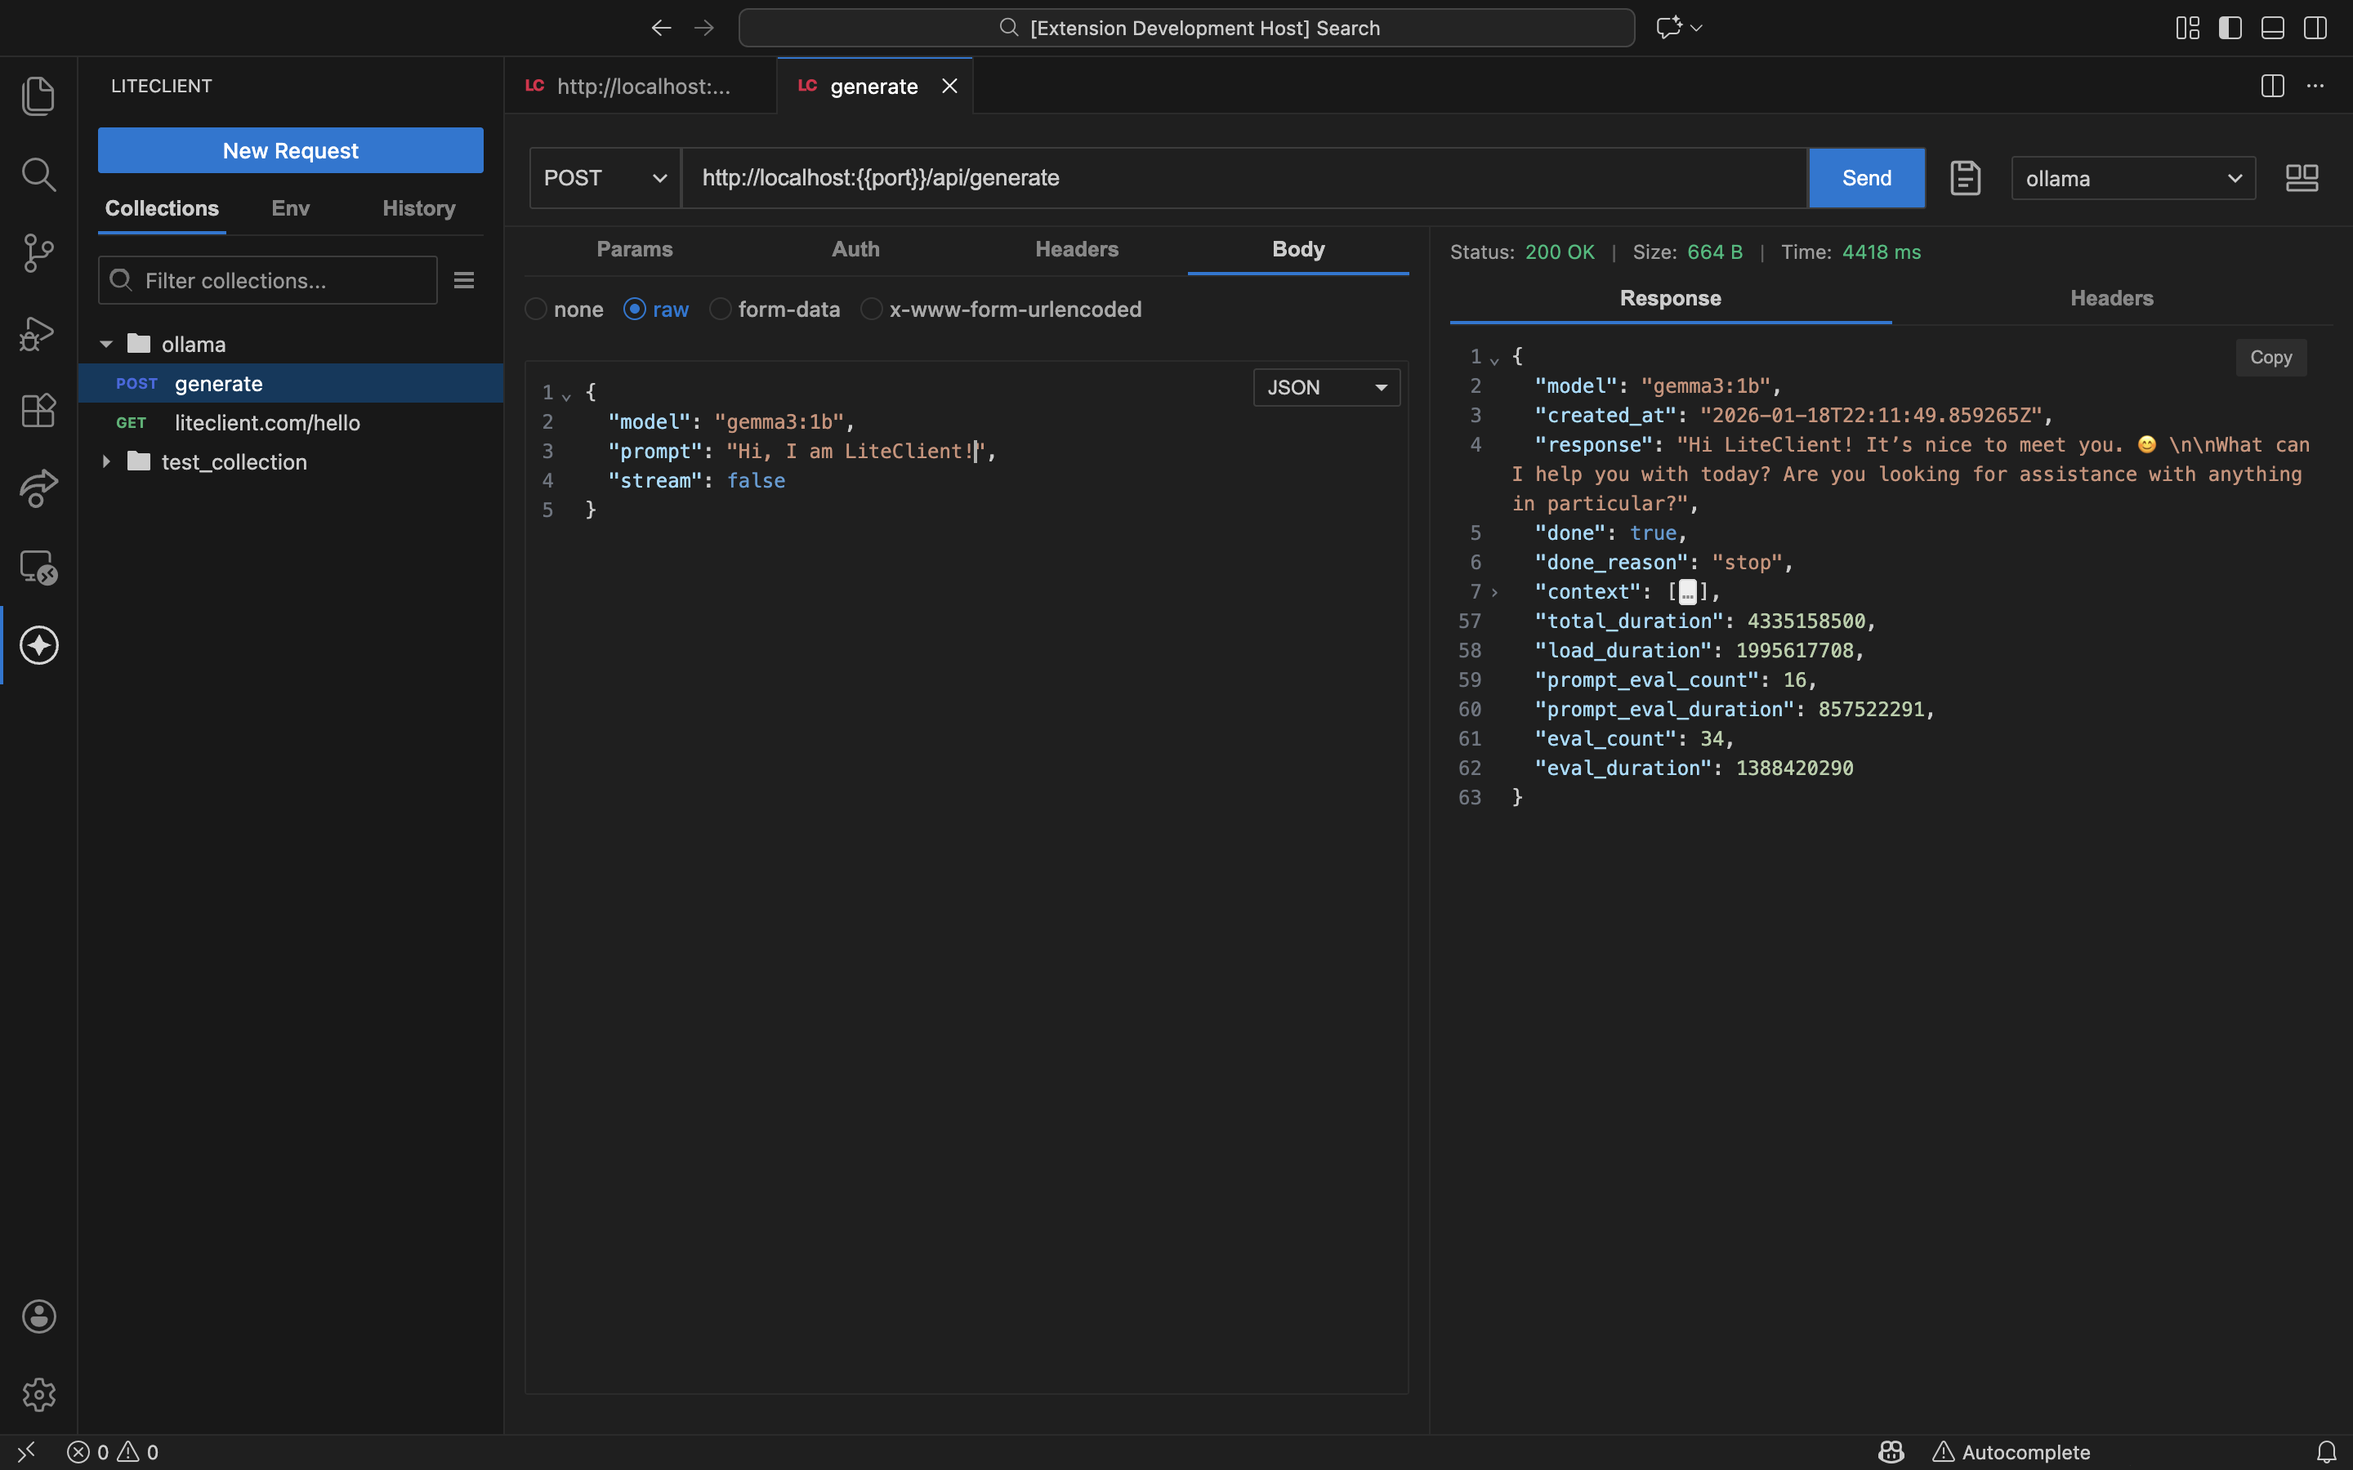
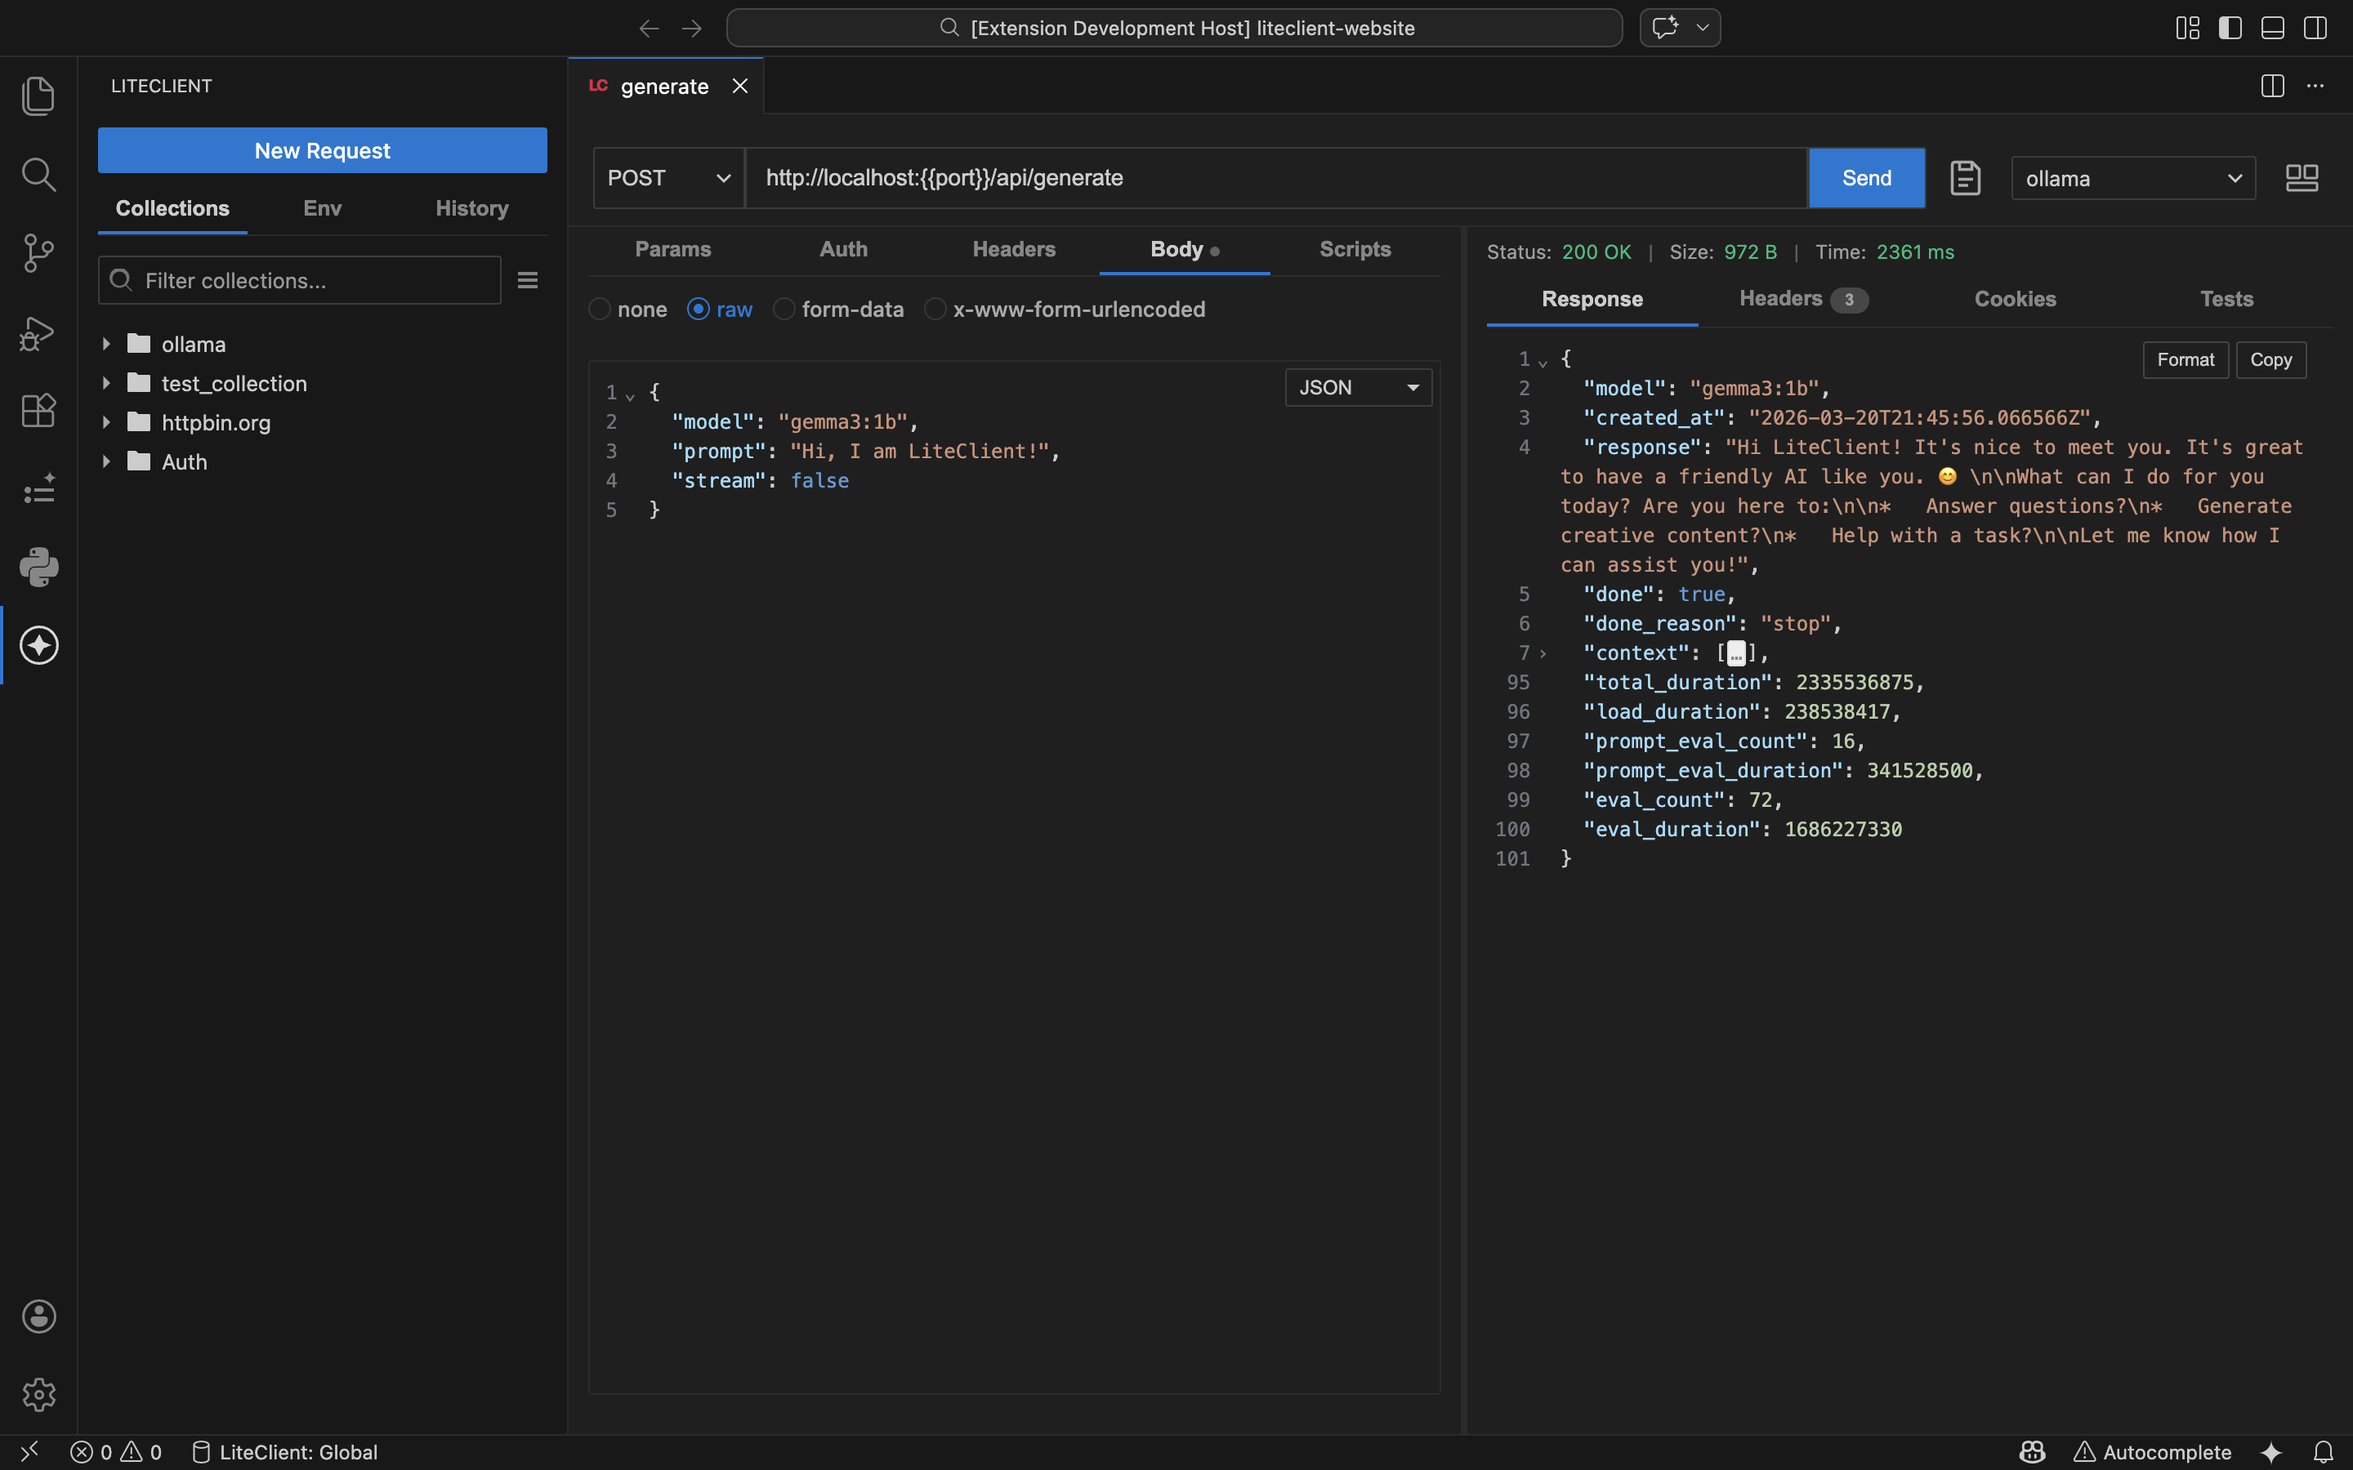
Update website copy and screenshot

diff --git a/index.html b/index.html
@@ -7,11 +7,11 @@
     <meta name="theme-color" content="#ffffff">
     <meta name="apple-mobile-web-app-capable" content="yes">
     <meta name="apple-mobile-web-app-status-bar-style" content="default">
-    <title>LiteClient | Fast, Private, Native REST API Client</title>
+    <title>LiteClient | Fast, Private REST API Client for VS Code</title>
     <meta name="description"
-        content="The fastest, most focused REST API client for modern code editors. A lightweight Postman and Thunder Client alternative with no accounts, no bloat, zero telemetry. High performance by design.">
+        content="Fast, private REST API client for VS Code with collections, environments, scripts, tests, OAuth 2.0, cookies, and Postman import/export. No accounts, no bloat, zero telemetry.">
     <meta name="keywords"
-        content="API testing, REST client, Postman alternative, Thunder Client alternative, VS Code extension, API development, HTTP client, JSON API, REST API tool">
+        content="API testing, REST client, Postman alternative, Thunder Client alternative, VS Code extension, API development, HTTP client, JSON API, REST API tool, API scripting, Postman collections">
     <link rel="canonical" href="https://liteclient.com/">
 
     <!-- Favicon -->
@@ -20,9 +20,9 @@
     <link rel="shortcut icon" href="media/logo.png">
 
     <!-- SEO & Social -->
-    <meta property="og:title" content="LiteClient | Fast, Private REST API Client - Postman Alternative">
+    <meta property="og:title" content="LiteClient | Fast, Private REST API Client for VS Code">
     <meta property="og:description"
-        content="Native, high-performance REST API client for VS Code, Cursor, and Antigravity. Lightweight alternative to Postman and Thunder Client.">
+        content="Native REST API client for VS Code with scripts, tests, collection variables, OAuth 2.0, cookies, and Postman import/export.">
     <meta property="og:image" content="media/screenshot.png">
     <meta property="og:url" content="https://liteclient.com/">
     <meta property="og:type" content="website">
@@ -30,9 +30,9 @@
 
     <!-- Twitter Cards -->
     <meta name="twitter:card" content="summary_large_image">
-    <meta name="twitter:title" content="LiteClient | Fast, Private REST API Client - Postman Alternative">
+    <meta name="twitter:title" content="LiteClient | Fast, Private REST API Client for VS Code">
     <meta name="twitter:description"
-        content="Native, high-performance REST API client for VS Code. Lightweight alternative to Postman and Thunder Client.">
+        content="Native REST API client for VS Code with scripts, tests, environments, collection variables, and Postman import/export.">
     <meta name="twitter:image" content="media/screenshot.png">
 
     <!-- Structured Data -->
@@ -41,7 +41,7 @@
       "@context": "https://schema.org",
       "@type": "SoftwareApplication",
       "name": "LiteClient",
-      "description": "A fast, private, native REST API client for modern code editors. Lightweight alternative to Postman and Thunder Client with no accounts, no bloat, zero telemetry.",
+      "description": "A fast, private, native REST API client for VS Code with scripts, tests, variables, OAuth 2.0, cookies, and Postman import/export.",
       "url": "https://liteclient.com/",
       "applicationCategory": "DeveloperApplication",
       "operatingSystem": "Windows, macOS, Linux",
@@ -56,6 +56,11 @@
         "url": "https://github.com/liteclienthq"
       },
       "featureList": [
+        "Pre-request and post-response scripts",
+        "Built-in test results panel",
+        "Collection variables",
+        "Environment manager with current values and secrets",
+        "Response body formatting",
         "OAuth 2.0 & PKCE Support",
         "Workspace-Scoped Storage",
         "Variable Autocomplete",
@@ -159,11 +164,11 @@
         <section class="hero min-h-screen bg-base-100">
             <div class="hero-content flex-col lg:flex-row gap-8">
                 <div class="flex flex-col justify-center flex-1">
-                    <div class="badge badge-lg mb-4 w-fit">Version 0.13.0 Available Now</div>
+                    <div class="badge badge-lg mb-4 w-fit">Version 0.17.0 Available Now</div>
                     <h1 class="text-4xl md:text-5xl lg:text-6xl font-black mb-6 leading-tight">API Testing <span
                             class="text-error">Redefined.</span></h1>
-                    <p class="text-lg md:text-xl text-base-content/70 mb-8">The fastest, most focused REST API client
-                        for developers who value performance and privacy. Built natively for your workspace.</p>
+                    <p class="text-lg md:text-xl text-base-content/70 mb-8">A fast, local-first REST client for VS
+                        Code with collections, environments, scripting, tests, cookies, and Postman compatibility.</p>
 
                     <div class="flex flex-col sm:flex-row gap-4">
                         <a href="https://marketplace.visualstudio.com/items?itemName=liteclienthq.liteclient"
@@ -344,69 +349,75 @@
                     <div
                         class="card bg-gradient-to-br from-base-100 to-base-200 border-2 border-base-300 hover:border-error hover:shadow-lg transition-all">
                         <div class="card-body items-center text-center gap-4">
-                            <h3 class="card-title text-lg">OAuth 2.0 & PKCE Support</h3>
-                            <p class="text-sm text-base-content/70">Full support for Auth Code, PKCE, and Client
-                                Credentials</p>
+                            <h3 class="card-title text-lg">Scripts & Tests</h3>
+                            <p class="text-sm text-base-content/70">Run pre-request and post-response scripts with a
+                                Postman-style `pm` API and built-in test reporting</p>
+                        </div>
+                    </div>
+                    <div
+                        class="card bg-gradient-to-br from-base-100 to-base-200 border-2 border-base-300 hover:border-error hover:shadow-lg transition-all">
+                        <div class="card-body items-center text-center gap-4">
+                            <h3 class="card-title text-lg">Environment Manager</h3>
+                            <p class="text-sm text-base-content/70">Manage initial values, current values, secrets,
+                                and enabled state in a dedicated table UI</p>
+                        </div>
+                    </div>
+                    <div
+                        class="card bg-gradient-to-br from-base-100 to-base-200 border-2 border-base-300 hover:border-error hover:shadow-lg transition-all">
+                        <div class="card-body items-center text-center gap-4">
+                            <h3 class="card-title text-lg">Collection Variables</h3>
+                            <p class="text-sm text-base-content/70">Use collection-scoped variables with autocomplete,
+                                request metadata visibility, and Postman round-tripping
+                            </p>
+                        </div>
+                    </div>
+                    <div
+                        class="card bg-gradient-to-br from-base-100 to-base-200 border-2 border-base-300 hover:border-error hover:shadow-lg transition-all">
+                        <div class="card-body items-center text-center gap-4">
+                            <h3 class="card-title text-lg">Response Formatting</h3>
+                            <p class="text-sm text-base-content/70">Pretty-print JSON, HTML, and XML responses
+                                automatically, with a manual format action when you want it</p>
+                        </div>
+                    </div>
+                    <div
+                        class="card bg-gradient-to-br from-base-100 to-base-200 border-2 border-base-300 hover:border-error hover:shadow-lg transition-all">
+                        <div class="card-body items-center text-center gap-4">
+                            <h3 class="card-title text-lg">OAuth 2.0 & PKCE</h3>
+                            <p class="text-sm text-base-content/70">Support for Auth Code, PKCE, and Client
+                                Credentials with token caching and refresh
+                            </p>
                         </div>
                     </div>
                     <div
                         class="card bg-gradient-to-br from-base-100 to-base-200 border-2 border-base-300 hover:border-error hover:shadow-lg transition-all">
                         <div class="card-body items-center text-center gap-4">
                             <h3 class="card-title text-lg">Workspace Storage</h3>
-                            <p class="text-sm text-base-content/70">Sync collections via Git in a local .liteclient
-                                folder</p>
+                            <p class="text-sm text-base-content/70">Store collections, environments, and history in
+                                `.liteclient/` for Git-friendly team workflows</p>
                         </div>
                     </div>
                     <div
                         class="card bg-gradient-to-br from-base-100 to-base-200 border-2 border-base-300 hover:border-error hover:shadow-lg transition-all">
                         <div class="card-body items-center text-center gap-4">
                             <h3 class="card-title text-lg">Variable Autocomplete</h3>
-                            <p class="text-sm text-base-content/70">Trigger instant suggestions with `{{` in any field
-                            </p>
+                            <p class="text-sm text-base-content/70">Trigger suggestions with `{{` in URLs, headers,
+                                params, and request bodies</p>
                         </div>
                     </div>
                     <div
                         class="card bg-gradient-to-br from-base-100 to-base-200 border-2 border-base-300 hover:border-error hover:shadow-lg transition-all">
                         <div class="card-body items-center text-center gap-4">
-                            <h3 class="card-title text-lg">Cookie Management</h3>
-                            <p class="text-sm text-base-content/70">Automatic cookie persistence and per-domain
-                                management</p>
-                        </div>
-                    </div>
-                    <div
-                        class="card bg-gradient-to-br from-base-100 to-base-200 border-2 border-base-300 hover:border-error hover:shadow-lg transition-all">
-                        <div class="card-body items-center text-center gap-4">
-                            <h3 class="card-title text-lg">File Upload Support</h3>
-                            <p class="text-sm text-base-content/70">Native file picker for multipart/form-data requests
-                            </p>
+                            <h3 class="card-title text-lg">Cookies & History</h3>
+                            <p class="text-sm text-base-content/70">Persist per-domain cookies and keep an immutable
+                                execution ledger for replay and debugging</p>
                         </div>
                     </div>
                     <div
                         class="card bg-gradient-to-br from-base-100 to-base-200 border-2 border-base-300 hover:border-error hover:shadow-lg transition-all">
                         <div class="card-body items-center text-center gap-4">
                             <h3 class="card-title text-lg">Postman Import/Export</h3>
-                            <p class="text-sm text-base-content/70">Seamlessly migrate from Postman collections</p>
-                        </div>
-                    </div>
-                    <div
-                        class="card bg-gradient-to-br from-base-100 to-base-200 border-2 border-base-300 hover:border-error hover:shadow-lg transition-all">
-                        <div class="card-body items-center text-center gap-4">
-                            <h3 class="card-title text-lg">Drag-and-Drop Reordering</h3>
-                            <p class="text-sm text-base-content/70">Reorganize requests and folders with ease</p>
-                        </div>
-                    </div>
-                    <div
-                        class="card bg-gradient-to-br from-base-100 to-base-200 border-2 border-base-300 hover:border-error hover:shadow-lg transition-all">
-                        <div class="card-body items-center text-center gap-4">
-                            <h3 class="card-title text-lg">Collections & History</h3>
-                            <p class="text-sm text-base-content/70">Organize endpoints and browse all past activity</p>
-                        </div>
-                    </div>
-                    <div
-                        class="card bg-gradient-to-br from-base-100 to-base-200 border-2 border-base-300 hover:border-error hover:shadow-lg transition-all">
-                        <div class="card-body items-center text-center gap-4">
-                            <h3 class="card-title text-lg">Environment Variables</h3>
-                            <p class="text-sm text-base-content/70">Manage variables across multiple environments</p>
+                            <p class="text-sm text-base-content/70">Bring over requests, auth, variables, and scripts
+                                without rebuilding collections by hand</p>
                         </div>
                     </div>
                 </div>
